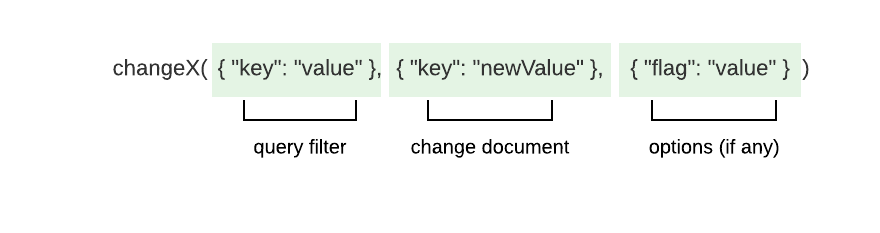
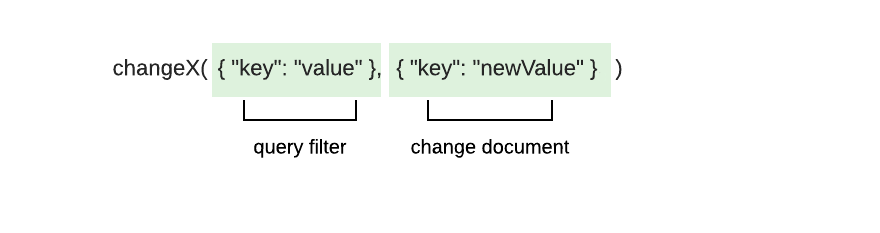
crud pages

Changed region(s): [[0.675, 0.1803, 0.9205, 0.4206], [0.7364, 0.6009, 0.8898, 0.691], [0.7364, 0.5107, 0.8898, 0.5408]]

diff --git a/source/includes/fundamentals/code-snippets/crud/text.rs b/source/includes/fundamentals/code-snippets/crud/text.rs
@@ -39,8 +39,7 @@ async fn main() -> mongodb::error::Result<()> {
                 name: "Garlic Butter Trout".to_string(),
                 description: "Baked trout seasoned with garlic, lemon, dill, and, of course, butter. Serves 2.".to_string(),
             },
-        ],
-        None
+        ]
     ).await?;
 
     // begin-idx
@@ -48,13 +47,13 @@ async fn main() -> mongodb::error::Result<()> {
         .keys(doc! { "description": "text" })
         .build();
 
-    let idx_res = my_coll.create_index(index, None).await?;
+    let idx_res = my_coll.create_index(index).await?;
     // end-idx
 
     // begin-by-term
     let filter = doc! { "$text": { "$search": "herb" } };
 
-    let mut cursor = my_coll.find(filter, None).await?;
+    let mut cursor = my_coll.find(filter).await?;
     while let Some(doc) = cursor.try_next().await? {
         println!("{:?}", doc);
     }
@@ -63,7 +62,7 @@ async fn main() -> mongodb::error::Result<()> {
     // begin-by-phrase
     let filter = doc! { "$text": { "$search": "\"serves 2\"" } };
 
-    let mut cursor = my_coll.find(filter, None).await?;
+    let mut cursor = my_coll.find(filter).await?;
     while let Some(doc) = cursor.try_next().await? {
         println!("{:?}", doc);
     }
@@ -72,7 +71,7 @@ async fn main() -> mongodb::error::Result<()> {
     // begin-exclude-term
     let filter = doc! { "$text": { "$search": "vegan -tofu" } };
 
-    let mut cursor = my_coll.find(filter, None).await?;
+    let mut cursor = my_coll.find(filter).await?;
     while let Some(doc) = cursor.try_next().await? {
         println!("{:?}", doc);
     }
@@ -88,10 +87,12 @@ async fn main() -> mongodb::error::Result<()> {
         "name": 1, 
         "score": { "$meta": "textScore" } 
     };
-    let opts = FindOptions::builder().sort(sort).projection(projection).build();
 
     let doc_coll: Collection<Document> = my_coll.clone_with_type();
-    let mut cursor = doc_coll.find(filter, opts).await?;
+    let mut cursor = doc_coll.find(filter)
+        .sort(sort)
+        .projection(projection)
+        .await?;
 
     while let Some(doc) = cursor.try_next().await? {
         println!("{:?}", doc);
@@ -101,7 +102,7 @@ async fn main() -> mongodb::error::Result<()> {
     // begin-agg-term
     let match_stage = doc! { "$match": { "$text": { "$search": "herb" } } };
 
-    let mut cursor = my_coll.aggregate([match_stage], None).await?;
+    let mut cursor = my_coll.aggregate([match_stage]).await?;
     while let Some(doc) = cursor.try_next().await? {
         println!("{:?}", doc);
     }
@@ -118,7 +119,7 @@ async fn main() -> mongodb::error::Result<()> {
     } };
 
     let pipeline = [match_stage, sort_stage, proj_stage];
-    let mut cursor = my_coll.aggregate(pipeline, None).await?;
+    let mut cursor = my_coll.aggregate(pipeline).await?;
     while let Some(doc) = cursor.try_next().await? {
         println!("{:?}", doc);
     }

diff --git a/source/includes/fundamentals/code-snippets/crud/query.rs b/source/includes/fundamentals/code-snippets/crud/query.rs
@@ -57,11 +57,11 @@ async fn main() -> mongodb::error::Result<()> {
     //end-sample-docs
 
     // Inserts sample documents into the collection
-    let insert_many_result = my_coll.insert_many(docs, None).await?;
+    let insert_many_result = my_coll.insert_many(docs).await?;
 
     //begin-literal
     let query = doc! { "name": "pear" };
-    let mut cursor = my_coll.find(query, None).await?;
+    let mut cursor = my_coll.find(query).await?;
     while let Some(doc) = cursor.try_next().await? {
         println!("{:?}", doc);
     }
@@ -70,7 +70,7 @@ async fn main() -> mongodb::error::Result<()> {
     //begin-comparison
     // $gt means "greater than"
     let query = doc! { "quantity": doc! { "$gt": 5 } };
-    let mut cursor = my_coll.find(query, None).await?;
+    let mut cursor = my_coll.find(query).await?;
     while let Some(doc) = cursor.try_next().await? {
         println!("{:?}", doc);
     }
@@ -83,7 +83,7 @@ async fn main() -> mongodb::error::Result<()> {
            doc! { "quantity": doc! { "$mod": [ 3, 0 ] } }
        ]
     };
-    let mut cursor = my_coll.find(query, None).await?;
+    let mut cursor = my_coll.find(query).await?;
     while let Some(doc) = cursor.try_next().await? {
         println!("{:?}", doc);
     }
@@ -91,7 +91,7 @@ async fn main() -> mongodb::error::Result<()> {
     println!("");
     //begin-element
     let query = doc! { "description": doc! { "$exists": true } };
-    let mut cursor = my_coll.find(query, None).await?;
+    let mut cursor = my_coll.find(query).await?;
     while let Some(doc) = cursor.try_next().await? {
         println!("{:?}", doc);
     }
@@ -100,7 +100,7 @@ async fn main() -> mongodb::error::Result<()> {
     //begin-evaluation
     // $mod means "modulo" and checks if the remainder is a specific value
     let query = doc! { "quantity": doc! { "$mod": [ 3, 0 ] } };
-    let mut cursor = my_coll.find(query, None).await?;
+    let mut cursor = my_coll.find(query).await?;
     while let Some(doc) = cursor.try_next().await? {
         println!("{:?}", doc);
     }
@@ -108,7 +108,7 @@ async fn main() -> mongodb::error::Result<()> {
     println!("");
     //begin-bitwise
     let query = doc! { "quantity": doc! { "$bitsAllSet": 7 } };
-    let mut cursor = my_coll.find(query, None).await?;
+    let mut cursor = my_coll.find(query).await?;
     while let Some(doc) = cursor.try_next().await? {
         println!("{:?}", doc);
     }
@@ -116,7 +116,7 @@ async fn main() -> mongodb::error::Result<()> {
     println!("");
     //begin-array
     let query = doc! { "vendors": doc! { "$elemMatch": { "$eq": "C" } } };
-    let mut cursor = my_coll.find(query, None).await?;
+    let mut cursor = my_coll.find(query).await?;
     while let Some(doc) = cursor.try_next().await? {
         println!("{:?}", doc);
     }

diff --git a/source/includes/fundamentals/code-snippets/crud/retrieve.rs b/source/includes/fundamentals/code-snippets/crud/retrieve.rs
@@ -18,7 +18,7 @@ async fn main() -> mongodb::error::Result<()> {
     let my_coll: Collection<Inventory> = client.database("db").collection("inventory");
 
     // start-sample
-    let docs = vec! [
+    let docs = vec![
         Inventory {
             item: "candle".to_string(),
             category: "decor".to_string(),
@@ -38,41 +38,35 @@ async fn main() -> mongodb::error::Result<()> {
             item: "watering can".to_string(),
             category: "garden".to_string(),
             unit_price: 11.99,
-        }
+        },
     ];
     // end-sample
 
     // Inserts sample documents into the collection
-    let insert_many_result = my_coll.insert_many(docs, None).await?;
+    let insert_many_result = my_coll.insert_many(docs).await?;
 
     // begin-find-many
-    let opts = FindOptions::builder()
+    let mut cursor = my_coll
+        .find(doc! { "$and": vec!
+        [
+            doc! { "unit_price": doc! { "$lt": 12.00 } },
+            doc! { "category": doc! { "$ne": "kitchen" } }
+        ] })
         .sort(doc! { "unit_price": -1 })
-        .build();
-
-    let mut cursor = my_coll.find(
-        doc! { "$and": vec!
-            [
-                doc! { "unit_price": doc! { "$lt": 12.00 } },
-                doc! { "category": doc! { "$ne": "kitchen" } }
-            ] },
-        opts
-    ).await?;
+        .await?;
 
     while let Some(result) = cursor.try_next().await? {
         println!("{:?}", result);
-    };
-    
+    }
+
     // end-find-many
     print!("\n");
 
     // begin-find-one
-    let opts = FindOneOptions::builder().skip(2).build();
-    let result = my_coll.find_one(
-        doc! { "unit_price":
-            doc! { "$lte": 20.00 } },
-        opts
-    ).await?;
+    let result = my_coll
+        .find_one(doc! { "unit_price": doc! { "$lte": 20.00 } })
+        .skip(2)
+        .await?;
 
     println!("{:#?}", result);
     // end-find-one
@@ -81,14 +75,14 @@ async fn main() -> mongodb::error::Result<()> {
     // begin-agg
     let pipeline = vec![
         doc! { "$group": doc! { "_id" : doc! {"category": "$category"} ,
-                                "avg_price" : doc! { "$avg" : "$unit_price" } } },
-        doc! { "$sort": { "_id.avg_price" : 1 } }
+        "avg_price" : doc! { "$avg" : "$unit_price" } } },
+        doc! { "$sort": { "_id.avg_price" : 1 } },
     ];
 
-    let mut cursor = my_coll.aggregate(pipeline, None).await?;
+    let mut cursor = my_coll.aggregate(pipeline).await?;
     while let Some(result) = cursor.try_next().await? {
         println!("{:?}", result);
-    };
+    }
     // end-agg
 
     Ok(())

diff --git a/source/includes/fundamentals/code-snippets/crud/cursor.rs b/source/includes/fundamentals/code-snippets/crud/cursor.rs
@@ -40,10 +40,10 @@ async fn main() -> mongodb::error::Result<()> {
     //end-sample-data
 
     // Inserts sample documents into the collection
-    let insert_many_result = my_coll.insert_many(docs, None).await?;
+    let insert_many_result = my_coll.insert_many(docs).await?;
 
     // start-indiv-builtin
-    let mut cursor = my_coll.find(doc! { "color": "red" }, None).await?;
+    let mut cursor = my_coll.find(doc! { "color": "red" }).await?;
     while cursor.advance().await? {
         println!("{:?}", cursor.deserialize_current()?);
     }
@@ -52,14 +52,14 @@ async fn main() -> mongodb::error::Result<()> {
     println!();
 
     // start-indiv-stream
-    let mut cursor = my_coll.find(doc! { "color": "red" }, None).await?;
+    let mut cursor = my_coll.find(doc! { "color": "red" }).await?;
     println!("Output from next() iteration:");
     while let Some(doc) = cursor.next().await {
         println!("{:?}", doc?);
     }
 
     println!();
-    let mut cursor = my_coll.find(doc! { "color": "yellow" }, None).await?;
+    let mut cursor = my_coll.find(doc! { "color": "yellow" }).await?;
     println!("Output from try_next() iteration:");
     while let Some(doc) = cursor.try_next().await? {
         println!("{:?}", doc);
@@ -69,24 +69,24 @@ async fn main() -> mongodb::error::Result<()> {
     println!();
     
     // start-array
-    let cursor = my_coll.find(doc! { "color": "red" }, None).await?;
+    let cursor = my_coll.find(doc! { "color": "red" }).await?;
     println!("Output from collect():");
     let v: Vec<Result<Fruit>> = cursor.collect().await;
     println!("{:?}", v);
 
     println!();
-    let cursor = my_coll.find(doc! { "color": "yellow" }, None).await?;
+    let cursor = my_coll.find(doc! { "color": "yellow" }).await?;
     println!("Output from try_collect():");
     let v: Vec<Fruit> = cursor.try_collect().await?;
     println!("{:?}", v);
     // end-array
 
     // start-options
-    let opts: FindOptions = FindOptions::builder()
+    let mut cursor = my_coll.find(doc! { "color": "red" })
         .batch_size(5)
         .cursor_type(CursorType::Tailable)
         .no_cursor_timeout(true)
-        .build();
+        .await?;
     // end-options
 
     Ok(())

diff --git a/source/includes/fundamentals/code-snippets/crud/change.rs b/source/includes/fundamentals/code-snippets/crud/change.rs
@@ -23,7 +23,7 @@ async fn main() -> mongodb::error::Result<()> {
     };
 
     let res = my_coll
-        .update_many(doc! { "department": "Marketing" }, update_doc, None)
+        .update_many(doc! { "department": "Marketing" }, update_doc)
         .await?;
     println!("Modified documents: {}", res.modified_count);
     // end-update
@@ -37,7 +37,7 @@ async fn main() -> mongodb::error::Result<()> {
     };
 
     let res = my_coll
-        .update_one(filter_doc, update_doc, None)
+        .update_one(filter_doc, update_doc)
         .await?;
     println!("Modified documents: {}", res.modified_count);
     // end-update-by-id
@@ -50,7 +50,7 @@ async fn main() -> mongodb::error::Result<()> {
     };
 
     let res = my_coll
-        .replace_one(doc! { "name": "Matt DeGuy" }, replace_doc, None)
+        .replace_one(doc! { "name": "Matt DeGuy" }, replace_doc)
         .await?;
     println!(
         "Matched documents: {}\nModified documents: {}",
@@ -61,8 +61,10 @@ async fn main() -> mongodb::error::Result<()> {
     let filter_doc = doc! {};
 
     // begin-options
-    let opts: UpdateOptions = UpdateOptions::builder().upsert(true).build();
-    let res = my_coll.update_one(filter_doc, update_doc, opts).await?;
+    let res = my_coll
+        .update_one(filter_doc, update_doc)
+        .upsert(true)
+        .await?;
     // end-options
 
     Ok(())

diff --git a/source/includes/fundamentals/code-snippets/crud/delete.rs b/source/includes/fundamentals/code-snippets/crud/delete.rs
@@ -12,15 +12,19 @@ async fn main() -> mongodb::error::Result<()> {
     // begin-delete
     let filter = doc! { "category": "garden" };
     let hint = Hint::Name("_id_".to_string());
-    let opts: DeleteOptions = DeleteOptions::builder().hint(hint).build();
 
-    let res = my_coll.delete_many(filter, opts).await?;
+    let res = my_coll
+        .delete_many(filter)
+        .hint(hint)
+        .await?;
     println!("Deleted documents: {}", res.deleted_count);
     // end-delete
 
     // begin-options
-    let opts: DeleteOptions = DeleteOptions::builder().comment(bson!("hello!")).build();
-    let res = my_coll.delete_one(filter, opts).await?;
+    let res = my_coll
+        .delete_one(filter)
+        .comment(bson!("hello!"))
+        .await?;
     // end-options
 
     Ok(())
